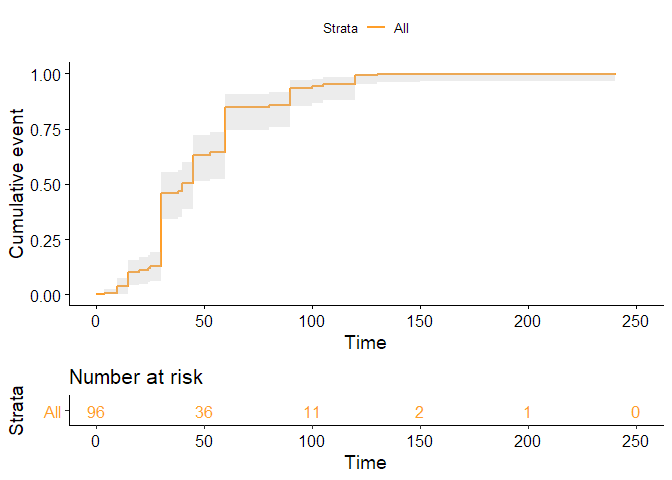
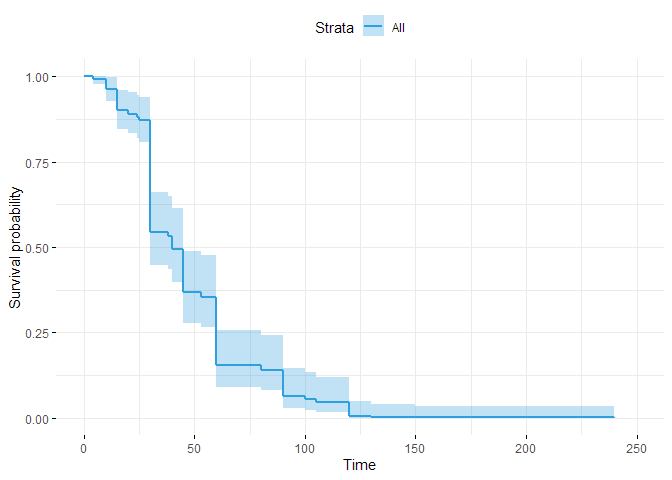
HBM minor changes
para facilitar a leitura do código dos últimos plots

diff --git a/9-HazardBasedModels.md b/9-HazardBasedModels.md
@@ -139,7 +139,7 @@ Data summary
 df <- df[order(df$minutes),]
 ```
 
-##### Create plot
+##### Plot yout data
 
 ``` r
 plot(df$minutes, type="h")
@@ -187,14 +187,33 @@ summary(df.survfit)
 ##### Plot the Kaplan-Meier curve
 
 ``` r
-plot(df.survfit, xlab = "Time (minutes)", ylab="Survival
-probability", conf.int=TRUE)
-ggsurvplot(df.survfit, xlab = "Time (minutes)", xlim =
-range(0:250) , conf.int = TRUE, pallete = "red", ggtheme =
-theme_minimal())
+# option 1
+plot(
+  df.survfit,
+  xlab = "Time (minutes)",
+  ylab = "Survival
+probability",
+conf.int = TRUE
+)
 ```
 
-![](README_files/8-HazardBasedModels/unnamed-chunk-9-1.png)<!-- -->![](README_files/8-HazardBasedModels/unnamed-chunk-9-2.png)<!-- -->
+![](README_files/8-HazardBasedModels/unnamed-chunk-9-1.png)<!-- -->
+
+``` r
+#option 2
+ggsurvplot(
+  df.survfit,
+  xlab = "Time (minutes)",
+  xlim =
+    range(0:250) ,
+  conf.int = TRUE,
+  pallete = "red",
+  ggtheme =
+    theme_minimal()
+)
+```
+
+![](README_files/8-HazardBasedModels/unnamed-chunk-10-1.png)<!-- -->
 
 > **Note:** It is the most widely applied nonparametric method in
 > survival analysis.The Kaplan–Meier method provides useful estimates of
@@ -272,13 +291,13 @@ test.ph <- cox.zph(result.cox)
 plot(test.ph)
 ```
 
-![](README_files/8-HazardBasedModels/unnamed-chunk-11-1.png)<!-- -->![](README_files/8-HazardBasedModels/unnamed-chunk-11-2.png)<!-- -->![](README_files/8-HazardBasedModels/unnamed-chunk-11-3.png)<!-- -->
+![](README_files/8-HazardBasedModels/unnamed-chunk-12-1.png)<!-- -->![](README_files/8-HazardBasedModels/unnamed-chunk-12-2.png)<!-- -->![](README_files/8-HazardBasedModels/unnamed-chunk-12-3.png)<!-- -->
 
 ``` r
 ggcoxzph(test.ph)
 ```
 
-![](README_files/8-HazardBasedModels/unnamed-chunk-11-4.png)<!-- -->![](README_files/8-HazardBasedModels/unnamed-chunk-11-5.png)<!-- -->
+![](README_files/8-HazardBasedModels/unnamed-chunk-12-4.png)<!-- -->![](README_files/8-HazardBasedModels/unnamed-chunk-12-5.png)<!-- -->
 
 > **Note:** It includes an interaction between the covariate and a
 > function of time (or distance). Log time is often used but it could be
@@ -296,14 +315,26 @@ ggcoxzph(test.ph)
 ##### Plot the baseline survival function
 
 ``` r
-ggsurvplot(survfit(result.cox), data= data.delay2, palette = "#2E9FDF", ggtheme = theme_minimal())
-```
-
-![](README_files/8-HazardBasedModels/unnamed-chunk-12-1.png)<!-- -->
-
-``` r
-ggsurvplot(survfit(result.cox), data= data.delay2, conf.int = TRUE, palette = c("#FF9E29",
-"#86AA00"), risk.table = TRUE, risk.table.col = "strata", fun = "event")
+ggsurvplot(
+  survfit(result.cox),
+  data = data.delay2,
+  palette = "#2E9FDF",
+  ggtheme = theme_minimal()
+)
 ```
 
 ![](README_files/8-HazardBasedModels/unnamed-chunk-13-1.png)<!-- -->
+
+``` r
+ggsurvplot(
+  survfit(result.cox),
+  data = data.delay2,
+  conf.int = TRUE,
+  palette = c("#FF9E29", "#86AA00"),
+  risk.table = TRUE,
+  risk.table.col = "strata",
+  fun = "event"
+)
+```
+
+![](README_files/8-HazardBasedModels/unnamed-chunk-14-1.png)<!-- -->
